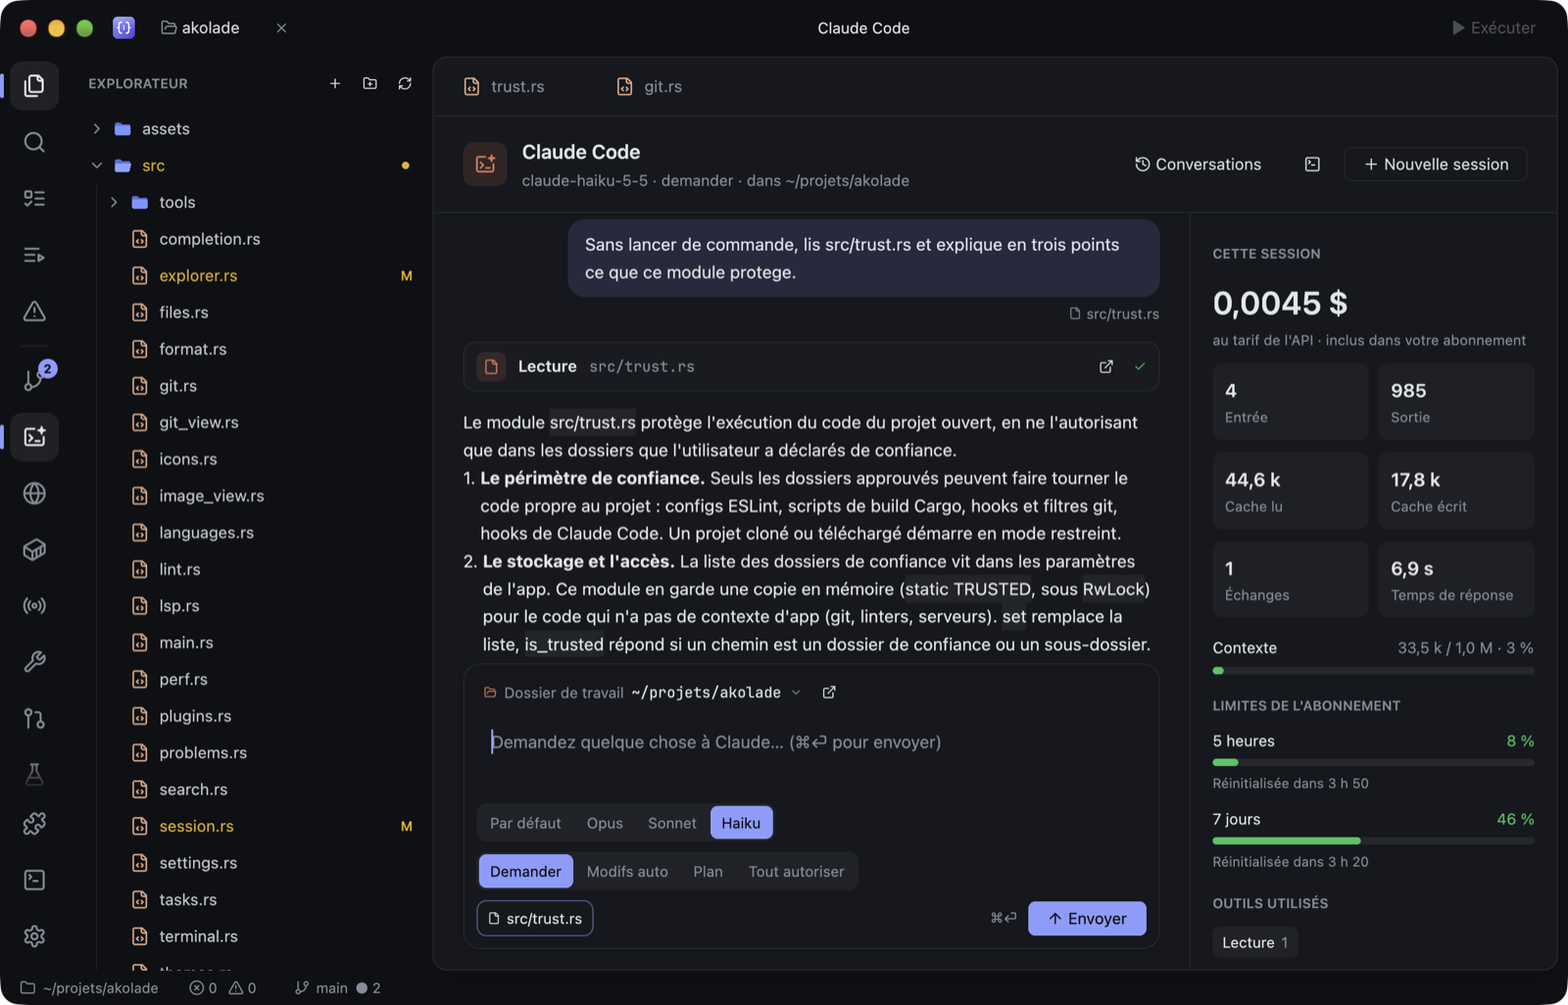
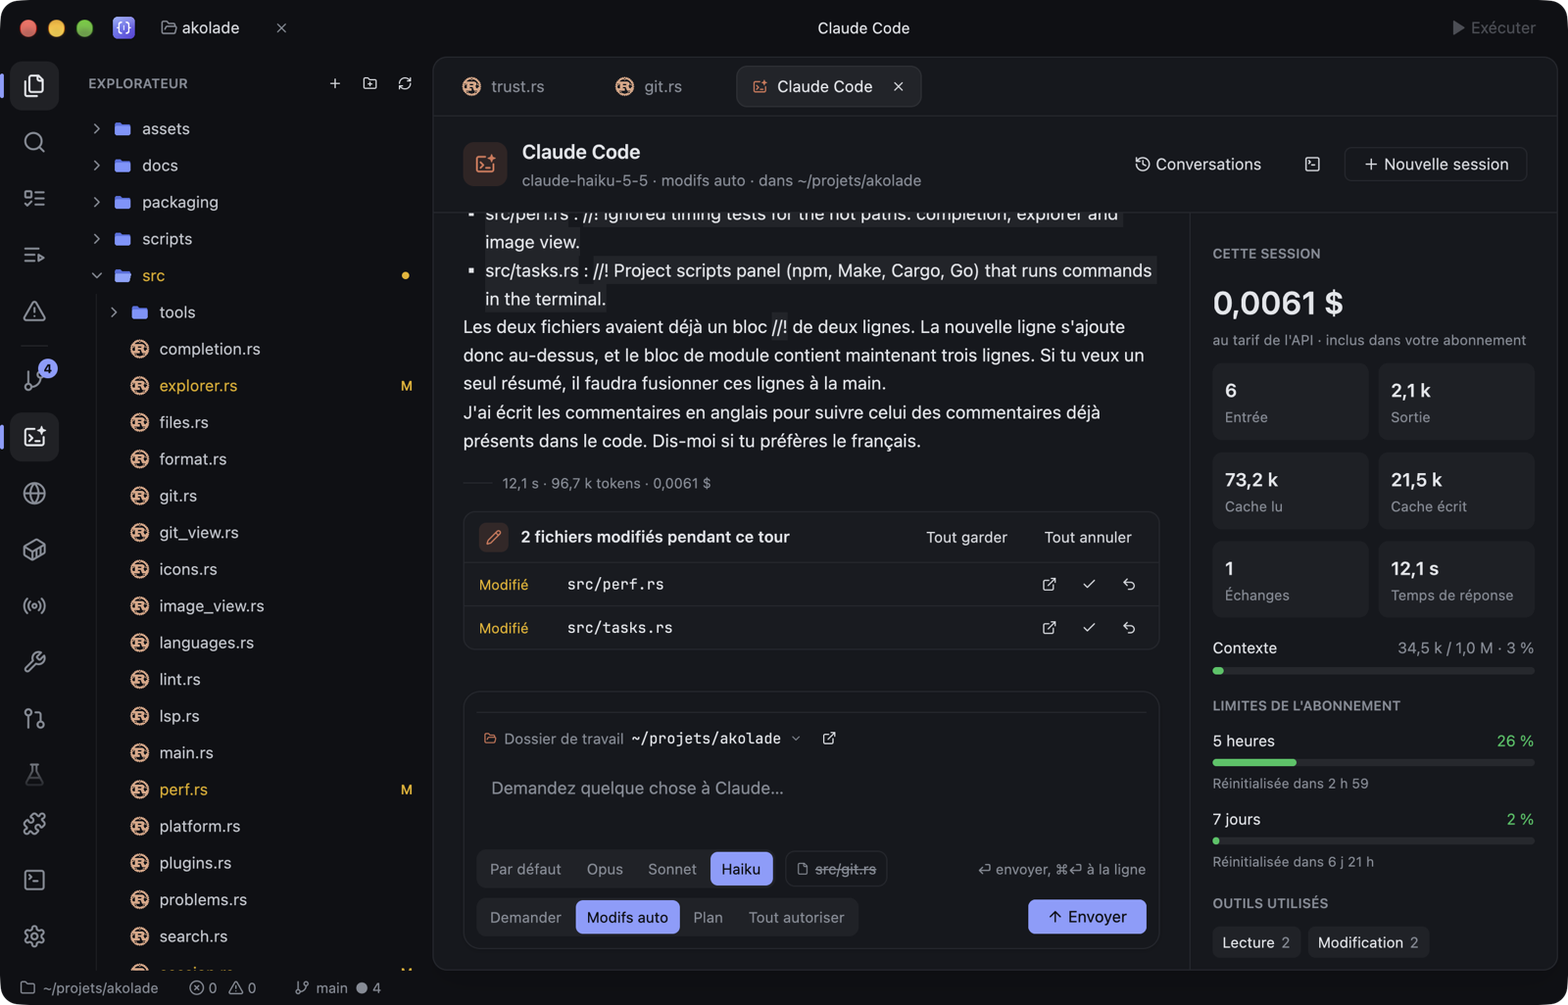
Page Akolade : nouveautés de Claude (fichiers modifiés par tour, retour avant un message, Toujours autoriser, file d'attente, images, commandes /), corrections rapides, captures Claude et Store à jour, dégradés réduits

diff --git a/akolade/index.html b/akolade/index.html
@@ -50,8 +50,8 @@ img { max-width: 100%; display: block; }
 .nav a.l { text-decoration: none; color: var(--muted); font-size: 14px; padding: 6px 11px; border-radius: 999px; transition: color .2s, background .2s; }
 .nav a.l:hover { color: var(--ink); background: rgb(255 255 255 / 0.06); }
 .nav a.navdl { display: inline-flex; align-items: center; gap: 7px; text-decoration: none; font-size: 14px; font-weight: 650; padding: 7px 14px 7px 12px; border-radius: 999px; color: #fff; margin-left: 6px;
-  background: linear-gradient(135deg, #5b66ff, #9b5cff); box-shadow: 0 6px 24px -8px rgb(124 92 255 / 0.9); transition: transform .2s var(--ease); }
-.nav a.navdl:hover { transform: translateY(-1px); }
+  background: #5560f0; transition: background .2s; }
+.nav a.navdl:hover { background: #4a55e0; }
 .nav a.navdl svg { width: 15px; height: 15px; stroke: currentColor; fill: none; stroke-width: 2.4; stroke-linecap: round; stroke-linejoin: round; }
 @media (max-width: 820px) { .nav a.l { display: none; } }
 @media (max-width: 420px) { .nav .brand span { display: none; } }
@@ -70,8 +70,6 @@ img { max-width: 100%; display: block; }
   mask-image: linear-gradient(to top, black 10%, transparent 80%); -webkit-mask-image: linear-gradient(to top, black 10%, transparent 80%);
   animation: floor 3s linear infinite; }
 @keyframes floor { to { background-position: 0 64px; } }
-.spot { position: absolute; inset: 0; z-index: -1; pointer-events: none;
-  background: radial-gradient(600px circle at var(--mx, 50%) var(--my, 30%), rgb(124 140 255 / 0.16), transparent 60%); }
 
 .hero-copy { position: relative; max-width: 1100px; margin: 0 auto; text-align: center; }
 .braces { position: absolute; left: 50%; top: -60px; transform: translateX(-50%); z-index: -1; font: 800 clamp(220px, 34vw, 460px)/1 var(--mono);
@@ -89,8 +87,8 @@ h1 .grad { background: linear-gradient(100deg, #fff 10%, var(--cyan) 35%, var(--
 .cta { display: flex; gap: 12px; justify-content: center; flex-wrap: wrap; opacity: 0; animation: fade 1s .9s var(--ease) forwards; }
 @keyframes fade { from { opacity: 0; transform: translateY(14px); } to { opacity: 1; transform: none; } }
 .btn { position: relative; display: inline-flex; align-items: center; gap: 8px; padding: 14px 24px; border-radius: 14px; font-weight: 650; font-size: 16px; text-decoration: none; transition: transform .25s var(--ease), box-shadow .25s; }
-.btn.main { color: #fff; background: linear-gradient(135deg, #5b66ff, #9b5cff); box-shadow: 0 10px 40px -10px rgb(124 92 255 / 0.8), inset 0 1px 0 rgb(255 255 255 / 0.25); }
-.btn.main:hover { transform: translateY(-2px); box-shadow: 0 18px 50px -10px rgb(124 92 255 / 0.95), inset 0 1px 0 rgb(255 255 255 / 0.25); }
+.btn.main { color: #fff; background: #5560f0; }
+.btn.main:hover { background: #4a55e0; }
 .btn.ghost { border: 1px solid var(--line); background: rgb(255 255 255 / 0.04); }
 .btn.ghost:hover { background: rgb(255 255 255 / 0.08); }
 
@@ -140,11 +138,20 @@ h1 .grad { background: linear-gradient(100deg, #fff 10%, var(--cyan) 35%, var(--
 .card .d div { padding: 0 10px; white-space: pre; }
 .card .d .rm { background: rgb(240 113 120 / 0.12); color: #f07178; } .card .d .ad { background: rgb(168 214 138 / 0.12); color: #a8d68a; }
 .card.ask { border-color: rgb(254 188 46 / 0.55); background: rgb(254 188 46 / 0.04); }
-.card .q { display: flex; align-items: center; gap: 8px; padding: 7px 9px; border-top: 1px solid rgb(254 188 46 / 0.25); font-size: 11.5px; }
+.card .q { display: flex; flex-wrap: wrap; align-items: center; gap: 8px; padding: 7px 9px; border-top: 1px solid rgb(254 188 46 / 0.25); font-size: 11.5px; }
 .card .q span { flex: 1; color: #c9ccd4; }
 .card .q button { font: 600 11px var(--sans); border: 0; border-radius: 6px; padding: 5px 9px; color: #c9ccd4; background: transparent; }
 .card .q button.yes { background: #8b9cff; color: #0f1014; transition: transform .2s, box-shadow .2s; }
 .card .q button.yes.press { transform: scale(.92); box-shadow: 0 0 0 6px rgb(139 156 255 / 0.25); }
+.card .q button.always { border: 1px solid #3a3f4b; }
+.card .fr { display: flex; align-items: center; gap: 8px; padding: 6px 9px; border-top: 1px solid #262a33; }
+.card .fr .m { width: 54px; flex-shrink: 0; font-size: 11px; color: #febc2e; }
+.card .fr .m.new { color: #28c840; }
+.card .fr code { flex: 1; font: 11px var(--mono); color: #e4e6eb; }
+.card .fr .st { color: #868c97; letter-spacing: 6px; }
+.card .fr .kept { font-size: 11px; color: #28c840; }
+.card .fr .gone { font-size: 11px; color: #868c97; }
+.card .fr.undone code { color: #868c97; text-decoration: line-through; }
 .reply { font-size: 12.5px; color: #d5d8df; }
 .turn { font-size: 11px; color: #5c6773; }
 .composer { margin: 0 10px 10px; border: 1px solid #262a33; border-radius: 10px; padding: 9px 10px; color: #5c6773; font-size: 12px; display: flex; justify-content: space-between; align-items: center; }
@@ -156,7 +163,7 @@ section { position: relative; padding: 140px 24px; }
 .wrap { max-width: 1180px; margin: 0 auto; }
 .kick { font: 600 13px var(--mono); color: var(--cyan); letter-spacing: .04em; margin: 0 0 14px; }
 h2 { margin: 0 0 18px; font-size: clamp(36px, 5.6vw, 68px); line-height: 1.02; letter-spacing: -0.035em; font-weight: 800; }
-h2 .grad { background: linear-gradient(100deg, var(--cyan), var(--indigo) 50%, var(--violet)); -webkit-background-clip: text; background-clip: text; color: transparent; }
+h2 .grad { color: var(--muted); }
 .sub { color: var(--muted); font-size: 19px; max-width: 620px; margin: 0; }
 .reveal { opacity: 0; transform: translateY(40px); transition: opacity 1s var(--ease), transform 1s var(--ease); }
 .reveal.seen { opacity: 1; transform: none; }
@@ -177,7 +184,7 @@ h2 .grad { background: linear-gradient(100deg, var(--cyan), var(--indigo) 50%, v
 .tour .grid { display: grid; grid-template-columns: minmax(300px, 4fr) 9fr; gap: 72px; }
 .tour .steps .step { min-height: 78vh; display: flex; flex-direction: column; justify-content: center; opacity: .25; transition: opacity .5s; }
 .tour .steps .step.on { opacity: 1; }
-.tour .step .num { font: 800 96px/1 var(--sans); letter-spacing: -0.04em; margin-bottom: 10px; background: linear-gradient(135deg, var(--cyan), var(--indigo) 55%, var(--violet)); -webkit-background-clip: text; background-clip: text; color: transparent; filter: drop-shadow(0 0 28px rgb(124 140 255 / 0.55)); }
+.tour .step .num { font: 800 96px/1 var(--sans); letter-spacing: -0.04em; margin-bottom: 10px; color: var(--indigo); }
 .tour .step h3 { font-size: 34px; letter-spacing: -0.02em; margin: 0 0 12px; line-height: 1.1; }
 .tour .step p { color: var(--muted); margin: 0; font-size: 18px; max-width: 440px; }
 .tour .step kbd { font: 12px var(--mono); padding: 2px 6px; border-radius: 5px; border: 1px solid var(--line); background: rgb(255 255 255 / 0.05); color: var(--ink); }
@@ -189,7 +196,7 @@ h2 .grad { background: linear-gradient(100deg, var(--cyan), var(--indigo) 50%, v
 .tour .shots img:first-of-type { position: relative; }
 .tour .glow { position: absolute; inset: 10% 5%; background: radial-gradient(circle, var(--glow, #4b55ff) 0%, transparent 70%); filter: blur(70px); opacity: .55; z-index: -1; transition: background 1s; }
 .tour .rail { position: absolute; left: -32px; top: 10%; bottom: 10%; width: 2px; background: var(--line); border-radius: 2px; }
-.tour .rail i { position: absolute; left: 0; top: 0; width: 2px; height: var(--p, 0%); background: linear-gradient(var(--cyan), var(--violet)); border-radius: 2px; transition: height .3s; }
+.tour .rail i { position: absolute; left: 0; top: 0; width: 2px; height: var(--p, 0%); background: var(--indigo); border-radius: 2px; transition: height .3s; }
 @media (max-width: 900px) { .tour .grid { grid-template-columns: 1fr; } .tour .frame { position: relative; top: 0; height: auto; order: -1; } .tour .steps .step { min-height: auto; opacity: 1; padding: 40px 0; } .tour .rail { display: none; } }
 
 /* ---------- Theme lab ---------- */
@@ -220,8 +227,8 @@ h2 .grad { background: linear-gradient(100deg, var(--cyan), var(--indigo) 50%, v
 .info p { color: var(--muted); font-size: 18px; margin: 0; max-width: 460px; }
 .info .k2 { font: 600 13px var(--mono); color: var(--violet); }
 .orbit { position: relative; width: min(620px, 92vw); aspect-ratio: 1; margin: 0 auto; }
-.orbit .core { position: absolute; inset: 37%; border-radius: 50%; display: grid; place-items: center; background: radial-gradient(circle, rgb(124 140 255 / 0.35), transparent 70%); }
-.orbit .core img { width: 64%; filter: drop-shadow(0 0 40px rgb(124 140 255 / 0.8)); animation: float 5s ease-in-out infinite; }
+.orbit .core { position: absolute; inset: 37%; border-radius: 50%; display: grid; place-items: center; }
+.orbit .core img { width: 64%; animation: float 5s ease-in-out infinite; }
 @keyframes float { 50% { transform: translateY(-8px) rotate(-3deg); } }
 .ring { position: absolute; border-radius: 50%; border: 1px dashed rgb(124 140 255 / 0.22); animation: turn var(--d) linear infinite; }
 .ring.r1 { inset: 20%; --d: 50s; } .ring.r2 { inset: 3%; --d: 80s; animation-direction: reverse; }
@@ -235,6 +242,23 @@ h2 .grad { background: linear-gradient(100deg, var(--cyan), var(--indigo) 50%, v
 .tool button:hover, .tool button.on { background: rgb(40 44 70 / 0.95); border-color: var(--c); box-shadow: 0 0 30px -4px var(--c); }
 .tools-list { display: none; }
 @media (max-width: 900px) { .orbit-sec .grid { grid-template-columns: 1fr; } }
+
+/* ---------- Claude: what you keep control of ---------- */
+.claude-sec .grid { display: grid; grid-template-columns: 1fr 1fr; gap: 56px; align-items: center; }
+.claude-sec ul { margin: 26px 0 0; padding: 0; list-style: none; color: var(--muted); }
+.claude-sec li { padding: 12px 0; border-top: 1px solid var(--line); }
+.claude-sec li b { color: var(--ink); }
+.claude-sec code { font: 14px var(--mono); color: var(--ink); }
+.turn-demo { font-size: 14px; display: grid; gap: 14px; }
+.turn-demo .me { justify-self: end; max-width: 90%; font-size: 14px; padding: 10px 14px; }
+.turn-demo .back { justify-self: end; font: 600 12.5px var(--sans); color: var(--muted); border: 1px solid var(--line); border-radius: 8px; padding: 5px 10px; background: rgb(255 255 255 / 0.03); }
+.turn-demo .card { font-size: 13.5px; background: #0f1014; }
+.turn-demo .card .h { padding: 10px 12px; }
+.turn-demo .card .h em { flex: 1; }
+.turn-demo .card .h span { font-size: 12.5px; color: var(--muted); }
+.turn-demo .card .fr { padding: 9px 12px; }
+.turn-demo .card .fr code, .turn-demo .card .fr .m, .turn-demo .card .fr .kept, .turn-demo .card .fr .gone { font-size: 13px; }
+@media (max-width: 900px) { .claude-sec .grid { grid-template-columns: 1fr; } }
 
 /* ---------- Security scene ---------- */
 .sec .grid { display: grid; grid-template-columns: 5fr 7fr; gap: 56px; align-items: center; }
@@ -254,7 +278,7 @@ h2 .grad { background: linear-gradient(100deg, var(--cyan), var(--indigo) 50%, v
 
 /* ---------- Install ---------- */
 .install { text-align: center; }
-.install .box { position: relative; max-width: 760px; margin: 48px auto 0; text-align: left; border-radius: 18px; padding: 2px; background: linear-gradient(135deg, var(--cyan), var(--indigo), var(--violet)); box-shadow: 0 30px 100px -30px rgb(124 92 255 / 0.7); }
+.install .box { position: relative; max-width: 760px; margin: 48px auto 0; text-align: left; border-radius: 18px; border: 1px solid var(--line); }
 .install .in { border-radius: 16px; background: #0b0c12; padding: 26px 26px 22px; }
 .install pre { margin: 0; font: 16px/1.9 var(--mono); color: #d5d8e6; overflow-x: auto; }
 .install pre .pr { color: var(--cyan); user-select: none; }
@@ -267,7 +291,7 @@ h2 .grad { background: linear-gradient(100deg, var(--cyan), var(--indigo) 50%, v
 .hero-info { margin: 16px auto 0 !important; font-size: 14px !important; opacity: 0; animation: fade 1s 1.1s var(--ease) forwards; }
 .hero-info a, .install .all a { color: var(--ink); }
 .get { max-width: 760px; margin: 48px auto 0; text-align: left; padding: 34px 34px 26px; border-radius: 22px; border: 1px solid var(--line);
-  background: radial-gradient(120% 140% at 0% 0%, rgb(91 102 255 / 0.18), transparent 55%), radial-gradient(120% 140% at 100% 100%, rgb(155 92 255 / 0.16), transparent 55%), rgb(255 255 255 / 0.02); }
+  background: var(--bg-2); }
 .btn.big { font-size: 19px; padding: 18px 30px; border-radius: 16px; }
 .get .dl-info { margin: 14px 0 22px; color: var(--muted); font-size: 15px; }
 .get .how { margin: 0; padding-left: 22px; color: var(--muted); }
@@ -297,8 +321,7 @@ h2 .grad { background: linear-gradient(100deg, var(--cyan), var(--indigo) 50%, v
 /* ---------- Footer ---------- */
 footer { position: relative; padding: 60px 24px 50px; border-top: 1px solid var(--line); overflow: hidden; }
 /* A fill, not a stroke: the system font's letters overlap inside, a stroke would draw those seams. */
-footer .big { font: 800 clamp(80px, 19vw, 260px)/0.9 var(--sans); letter-spacing: -0.06em; text-align: center; margin: 0 0 40px; user-select: none;
-  background: linear-gradient(180deg, rgb(124 140 255 / 0.28), rgb(124 140 255 / 0.02) 85%); -webkit-background-clip: text; background-clip: text; color: transparent; }
+footer .big { font: 800 clamp(80px, 19vw, 260px)/0.9 var(--sans); letter-spacing: -0.06em; text-align: center; margin: 0 0 40px; user-select: none; color: rgb(124 140 255 / 0.1); }
 footer .cols { max-width: 1180px; margin: 0 auto; display: flex; flex-wrap: wrap; gap: 20px 40px; justify-content: space-between; color: var(--dim); font-size: 14px; }
 footer .cols p { margin: 0; max-width: 560px; }
 footer .cols nav { display: flex; gap: 22px; }
@@ -318,6 +341,7 @@ footer a { color: var(--muted); }
 <nav class="nav" aria-label="Sections">
   <a class="brand" href="#top"><img src="images/akolade.svg" alt=""><span>Akolade</span></a>
   <a class="l" href="#visite">Visite</a>
+  <a class="l" href="#claude">Claude</a>
   <a class="l" href="#themes">Thèmes</a>
   <a class="l" href="#outils">Outils</a>
   <a class="l" href="#securite">Sécurité</a>
@@ -329,7 +353,6 @@ footer a { color: var(--muted); }
 <header class="hero" id="top">
   <div class="aurora" aria-hidden="true"><i></i><i></i><i></i></div>
   <div class="floor" aria-hidden="true"></div>
-  <div class="spot" aria-hidden="true"></div>
   <div class="hero-copy">
     <div class="braces" aria-hidden="true">{ }</div>
     <h1>
@@ -351,7 +374,7 @@ footer a { color: var(--muted); }
   </div>
 
   <div class="stage" id="demo">
-    <div class="win" id="win" role="img" aria-label="Démonstration animée : du code Rust s'écrit dans l'éditeur, puis Claude Code corrige la fonction moyenne après avoir demandé l'autorisation de modifier le fichier.">
+    <div class="win" id="win" role="img" aria-label="Démonstration animée : du code Rust s'écrit dans l'éditeur, Claude Code corrige la fonction moyenne après avoir demandé l'autorisation de modifier le fichier, puis le fichier modifié est gardé.">
       <div class="bar"><i></i><i></i><i></i><span>akolade : src/meteo.rs</span></div>
       <div class="body" aria-hidden="true">
         <div class="act">
@@ -398,7 +421,7 @@ footer a { color: var(--muted); }
           <article class="step" data-shot="0" data-glow="#4b55ff">
             <div class="num">01</div>
             <h3>Ouvrir et écrire</h3>
-            <p>L'explorateur marque les fichiers modifiés, la complétion classe les mots selon le contexte, et <kbd>⌘R</kbd> lance le fichier ouvert.</p>
+            <p>L'explorateur marque les fichiers modifiés, la complétion classe les mots selon le contexte, <kbd>⌘.</kbd> propose des corrections rapides et <kbd>⌘R</kbd> lance le fichier ouvert.</p>
           </article>
           <article class="step" data-shot="1" data-glow="#28c840">
             <div class="num">02</div>
@@ -408,7 +431,7 @@ footer a { color: var(--muted); }
           <article class="step" data-shot="2" data-glow="#d97757">
             <div class="num">03</div>
             <h3>Déléguer à Claude</h3>
-            <p>Il lit, modifie et lance ses commandes sous vos yeux. Chaque action a sa carte, et le coût de la session reste affiché à droite.</p>
+            <p>Il lit, modifie et lance ses commandes sous vos yeux. Chaque action a sa carte, chaque fichier modifié se garde ou s'annule, et le coût de la session reste affiché à droite.</p>
           </article>
           <article class="step" data-shot="3" data-glow="#a35cff">
             <div class="num">04</div>
@@ -426,10 +449,37 @@ footer a { color: var(--muted); }
             <div class="glow" id="glow"></div>
             <img class="on" src="images/editeur.png" alt="L'éditeur avec l'explorateur et un fichier Rust ouvert." width="1600" height="1026">
             <img src="images/git.png" alt="L'outil Git et le diff d'un fichier." width="1600" height="1026" loading="lazy">
-            <img src="images/claude.png" alt="Claude Code qui lit un fichier et répond, avec le coût de la session." width="1600" height="1026" loading="lazy">
+            <img src="images/claude.png" alt="Claude Code après un tour : sa réponse, les deux fichiers modifiés à garder ou annuler, et le suivi de la session." width="1600" height="1026" loading="lazy">
             <img src="images/store.png" alt="Le Store d'Akolade." width="1600" height="1026" loading="lazy">
             <img src="images/theme-clair.png" alt="Akolade avec le thème clair Aube." width="1600" height="1026" loading="lazy">
           </div>
+        </div>
+      </div>
+    </div>
+  </section>
+
+  <section class="claude-sec" id="claude">
+    <div class="wrap grid">
+      <div>
+        <p class="kick">Claude Code</p>
+        <h2 class="reveal">Claude modifie.<br><span class="grad">Vous décidez de ce qui reste.</span></h2>
+        <p class="sub">Akolade utilise votre propre <code>claude</code>, avec vos réglages, vos plugins et votre abonnement. Aucune clé ne passe par l'éditeur.</p>
+        <ul>
+          <li><b>Chaque tour liste les fichiers modifiés</b>, commandes comprises. Un clic montre le diff, et chaque fichier se garde ou s'annule.</li>
+          <li><b>Revenir avant ce message</b> remet les fichiers du projet comme ils étaient. Les instantanés sont des objets Git : vos branches, votre index et vos remises ne bougent pas.</li>
+          <li><b>Toujours autoriser</b> dit ce qu'il retient, par exemple la commande <code>git status *</code> dans ce projet, puis ne redemande plus.</li>
+          <li><b>Écrivez pendant qu'il travaille</b> : le message se met en file et part à la fin du tour. Arrêter interrompt le tour.</li>
+          <li><b>Collez une image ou un long texte</b> : ils partent avec le message. Tapez <code>/</code> pour les commandes de Claude Code, de vos skills et de vos plugins.</li>
+        </ul>
+      </div>
+      <div class="turn-demo" role="img" aria-label="Un message envoyé à Claude avec le bouton Revenir avant ce message, puis la carte des trois fichiers modifiés pendant le tour : deux à garder ou annuler, un déjà annulé.">
+        <div class="me" aria-hidden="true">Ajoute une fonction plus_chaud et ses tests.</div>
+        <div class="back" aria-hidden="true">↶ Revenir avant ce message</div>
+        <div class="card" aria-hidden="true">
+          <div class="h"><span>✎</span><em>3 fichiers modifiés pendant ce tour</em><span>Tout garder</span><span>Tout annuler</span></div>
+          <div class="fr"><span class="m">Modifié</span><code>src/meteo.rs</code><span class="st">✓↶</span></div>
+          <div class="fr"><span class="m new">Créé</span><code>src/stats.rs</code><span class="st">✓↶</span></div>
+          <div class="fr undone"><span class="m">Modifié</span><code>tests/meteo.rs</code><span class="gone">Annulé</span></div>
         </div>
       </div>
     </div>
@@ -570,13 +620,8 @@ const reduced = matchMedia('(prefers-reduced-motion: reduce)').matches;
 const $ = (s) => document.querySelector(s);
 const esc = (s) => s.replace(/&/g, '&amp;').replace(/</g, '&lt;').replace(/>/g, '&gt;');
 
-/* ---------- Hero: spotlight and the window straightening on scroll ---------- */
-const hero = $('.hero'), win = $('#win');
-hero.addEventListener('pointermove', (e) => {
-  const r = hero.getBoundingClientRect();
-  hero.style.setProperty('--mx', `${e.clientX - r.left}px`);
-  hero.style.setProperty('--my', `${e.clientY - r.top}px`);
-});
+/* ---------- Hero: the window straightening on scroll ---------- */
+const win = $('#win');
 function tilt() {
   if (reduced) return;
   const r = win.getBoundingClientRect();
@@ -633,6 +678,7 @@ async function stream(el, text) {
   for (let i = 0; i < text.length; i += 2) { el.textContent = text.slice(0, i); await wait(18); }
   el.textContent = text;
 }
+const FILES = '<div class="h"><span>✎</span><em>1 fichier modifié pendant ce tour</em></div><div class="fr"><span class="m">Modifié</span><code>src/meteo.rs</code><span class="st">✓↶</span></div>';
 const diff = '<div class="d"><div class="rm">-     total / releves.len() as f32</div><div class="ad">+     if releves.is_empty() {</div><div class="ad">+         return 0.0;</div><div class="ad">+     }</div><div class="ad">+     total / releves.len() as f32</div></div>';
 async function demo() {
   for (;;) {
@@ -649,7 +695,7 @@ async function demo() {
     think.remove();
     add('<div class="h"><svg viewBox="0 0 24 24" width="13" height="13" fill="none" stroke="#868c97" stroke-width="2" stroke-linecap="round" stroke-linejoin="round"><path d="M15 2H6a2 2 0 0 0-2 2v16a2 2 0 0 0 2 2h12a2 2 0 0 0 2-2V7Z"/><path d="M14 2v4a2 2 0 0 0 2 2h4"/></svg><em>Lecture</em><code>src/meteo.rs</code><span class="ok">✓</span></div>', 'msg card');
     await wait(900);
-    const ask = add(`<div class="h"><span>✎</span><em>Modification</em><code>src/meteo.rs</code></div>${diff}<div class="q"><span>Claude demande votre autorisation</span><button>Refuser</button><button class="yes">Autoriser</button></div>`, 'msg card ask');
+    const ask = add(`<div class="h"><span>✎</span><em>Modification</em><code>src/meteo.rs</code></div>${diff}<div class="q"><span>Claude demande votre autorisation</span><button>Refuser</button><button class="always">Toujours autoriser</button><button class="yes">Autoriser</button></div>`, 'msg card ask');
     await wait(1800);
     const yes = ask.querySelector('.yes');
     yes.classList.add('press'); await wait(260); yes.classList.remove('press');
@@ -661,6 +707,12 @@ async function demo() {
     await wait(500);
     const reply = add('', 'msg reply');
     await stream(reply, "C'est corrigé : une liste vide renvoie 0.0 au lieu de diviser par zéro.");
+    await wait(400);
+    const files = add(FILES, 'msg card');
+    await wait(1600);
+    const keep = files.querySelector('.st');
+    keep.style.color = '#28c840'; await wait(300);
+    keep.outerHTML = '<span class="kept">Gardé</span>';
     add('4,1 s, 18,2 k tokens, 0,004 $', 'msg turn');
     await wait(5200);
     $('#meteoFile').classList.remove('mod');
@@ -671,6 +723,7 @@ if (reduced) {
   add('La moyenne plante sur une liste vide. Corrige-la.', 'msg me in');
   add(`<div class="h"><span>✎</span><em>Modification</em><code>src/meteo.rs</code><span class="ok">✓</span></div>${diff}`, 'msg card in');
   add("C'est corrigé : une liste vide renvoie 0.0 au lieu de diviser par zéro.", 'msg reply in');
+  add(FILES.replace('<span class="st">✓↶</span>', '<span class="kept">Gardé</span>'), 'msg card in');
 } else {
   paint(CODE, 0, 0);
   setTimeout(demo, 900);
@@ -712,6 +765,7 @@ function apply(i) {
   [...chips.children].forEach((c, j) => { c.classList.toggle('on', j === i); c.setAttribute('aria-checked', j === i); });
   $('#themeNote').textContent = `${t.name} : thème ${t.dark ? 'sombre' : 'clair'}, accent ${t.primary}.`;
 }
+THEMES.sort((a, b) => a.name.localeCompare(b.name, 'fr', { sensitivity: 'base' }));
 THEMES.forEach((t, i) => {
   const b = document.createElement('button');
   b.className = 'chip'; b.type = 'button'; b.setAttribute('role', 'radio');
@@ -720,7 +774,7 @@ THEMES.forEach((t, i) => {
   b.addEventListener('click', () => { auto = false; apply(i); });
   chips.appendChild(b);
 });
-apply(0);
+apply(THEMES.findIndex((t) => t.name === 'Minuit'));
 let labVisible = false;
 new IntersectionObserver(([e]) => { labVisible = e.isIntersecting; }).observe(tw);
 setInterval(() => { if (auto && labVisible) apply((cur + 1) % THEMES.length); }, 2400);
